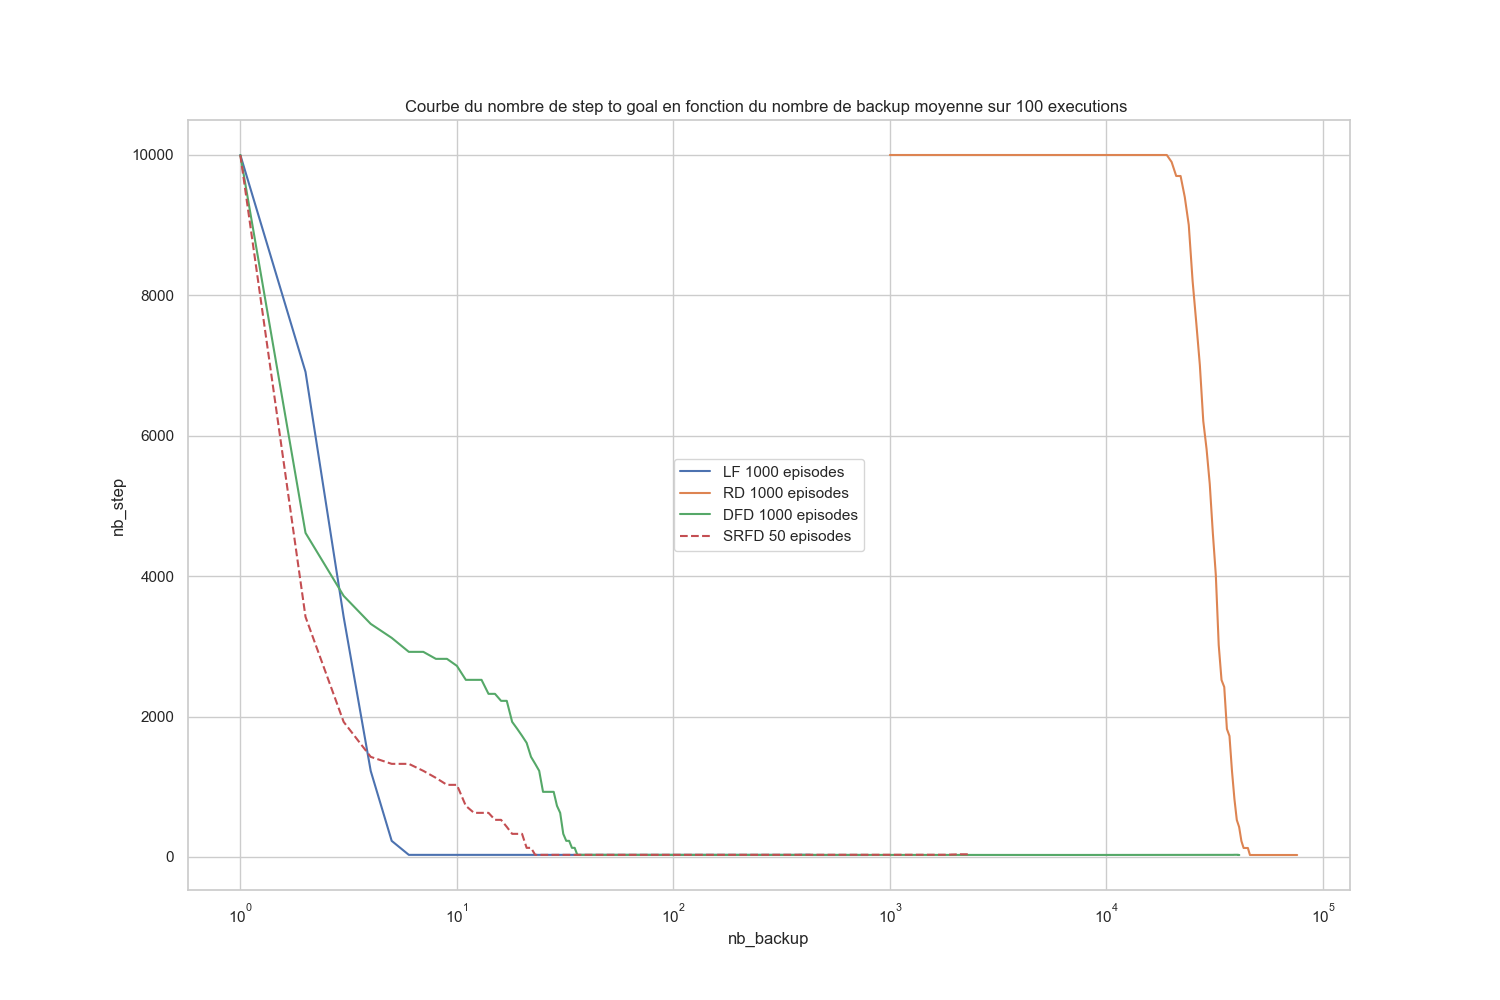
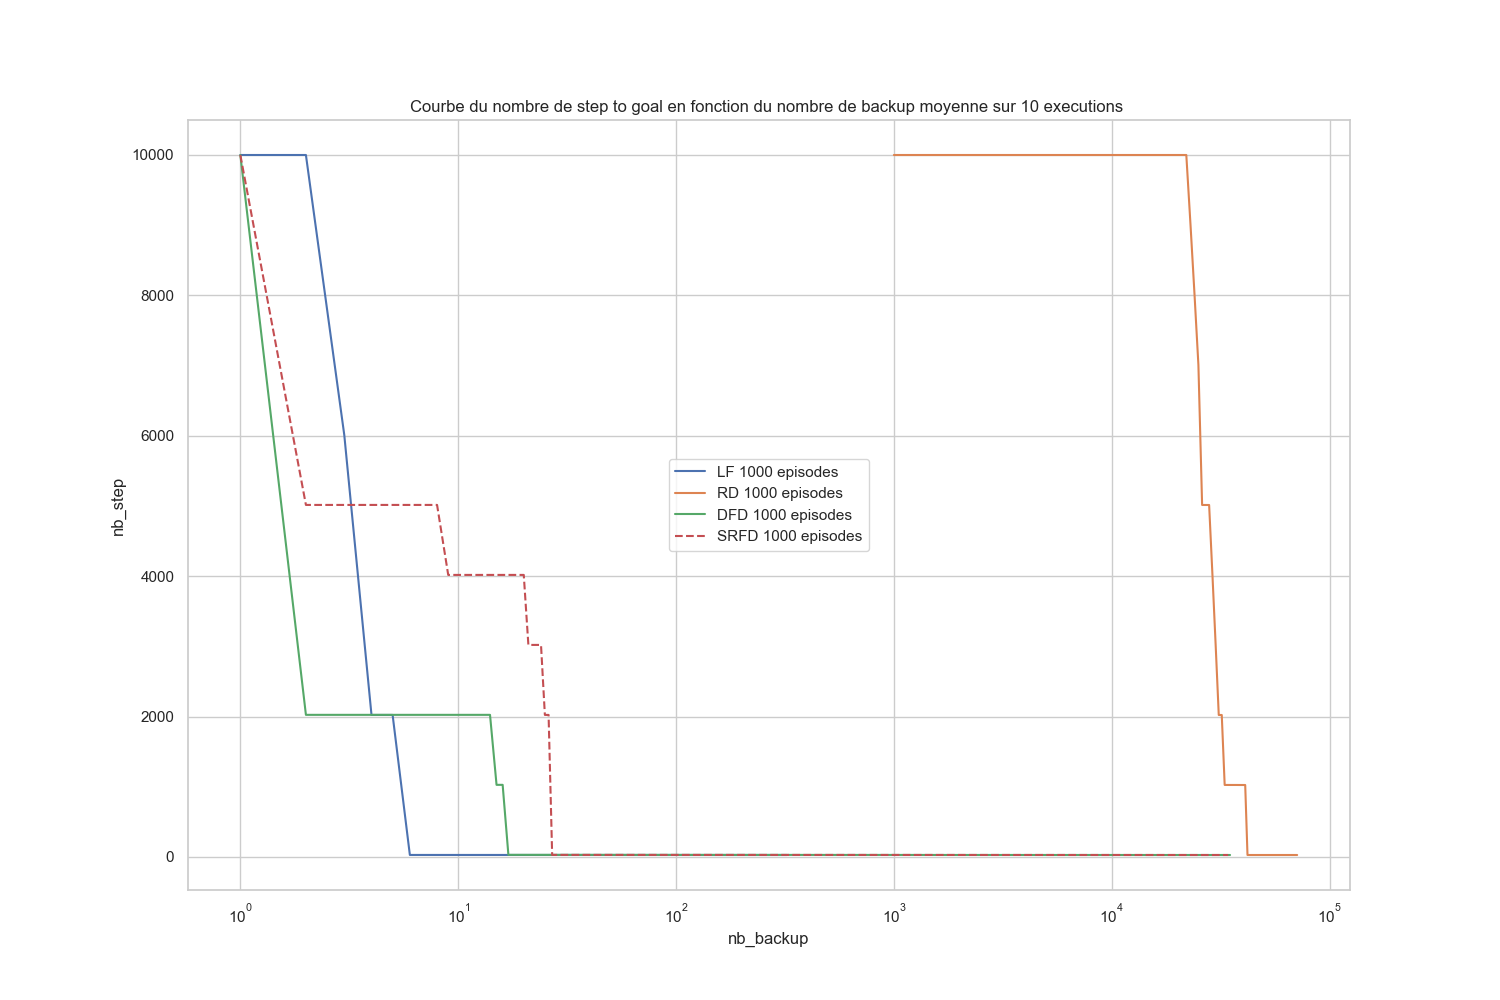
Fix SR

diff --git a/prma/fig-8.py b/prma/fig-8.py
@@ -81,7 +81,7 @@ for i in range(nb_exec):
     all_backups_dfd.append(nb_backup)
 
     SR = SuccessorRepresentationFD(env, config.main.alpha,config.main.delta, 
-                                    config.main.epsilon, config.sr.nb_episode,
+                                    config.main.epsilon,config.main.nb_episode,
                                     config.main.max_step, config.sr.env18x12.train_episode_length, 
                                     config.sr.env18x12.test_episode_length)
     SR.execute()

diff --git a/prma/assets/SuccessorRepresentationFD.py b/prma/assets/SuccessorRepresentationFD.py
@@ -153,10 +153,8 @@ class SuccessorRepresentationFD(FocusedDyna) :
         Returns
         ----------      
     """
-    for i in range(self.episode) : 
-      # print(i)
-      self.train_phase()
-      self.test_phase()
+    self.train_phase()
+    self.test_phase()
 
   def optimal_path_length(self) : 
     """ Calculate the optimal path length
